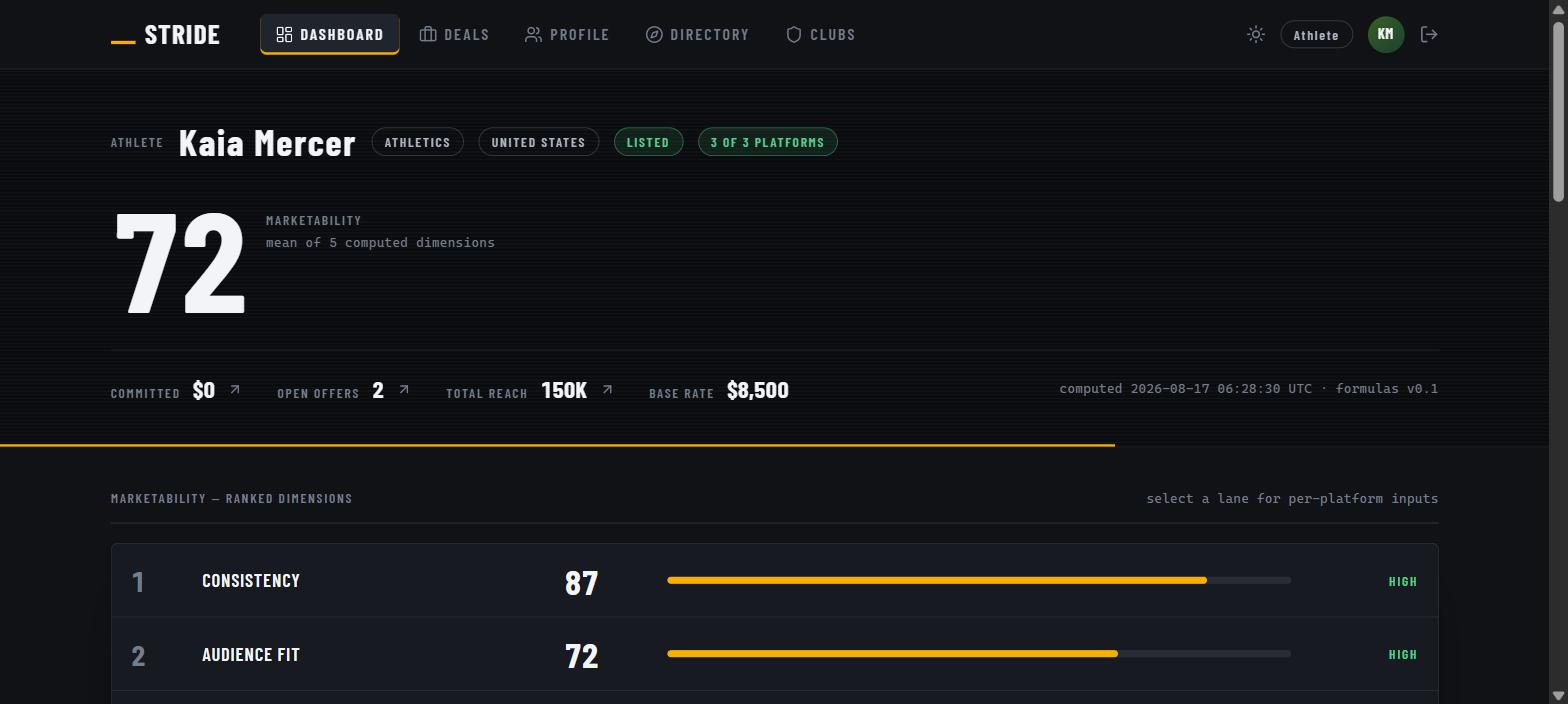
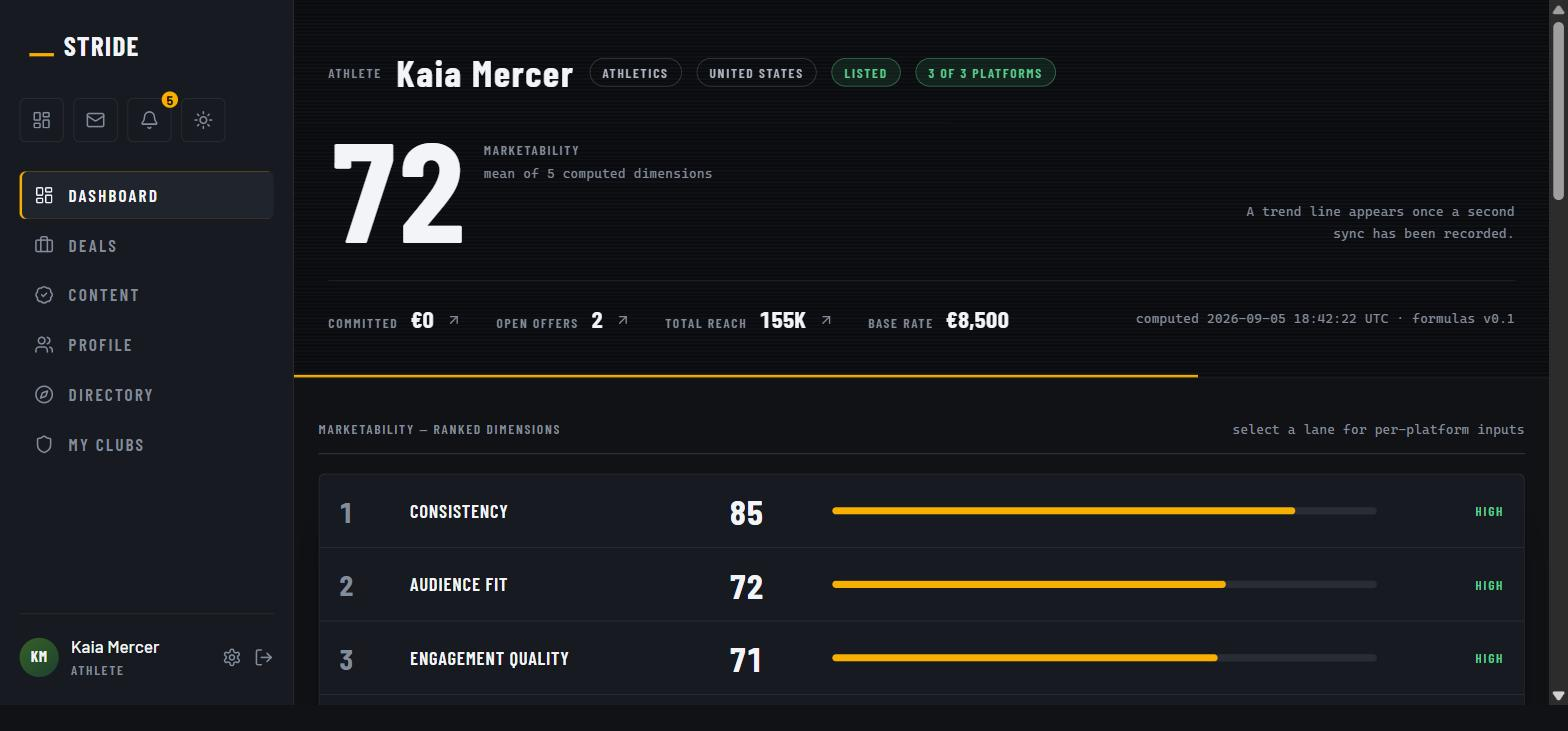
Re-shoot the README: the screenshots were three weeks and eleven PRs stale
Every image in the README was taken on 17 August. Since then the product grew
a choropleth, platform-tinted posts, generated cover art, an audience-aware
landing, a settings page, a moderation queue, a seeded money side and a named
type scale -- and the README showed none of it.

Ten screenshots, all re-taken from the current production build at the same
1568px width as the set they replace. Six replace the stale ones; four are
surfaces that did not exist to photograph before:

  audience-map     the choropleth, with the simulated-audience chip
  athlete-public   the page an athlete gives their audience
  creator-feed     a wall mixing own posts with platform activity, tinted
  account          address confirmation, password, sessions, data controls

The prose was stale in the same places. "Fans follow" was written when a fan
could only follow: they now subscribe, vote in polls, write on walls and
message the athletes they support, and the one-line pitch and the roles table
say so. "20 routes" is 32 -- links.py counts them, so there is no excuse for
that number being wrong.

The visual tour gained an opening paragraph about the direction itself, since
"what it looks like" had eight screenshots and no statement of what it was
trying to look like. It points at DESIGN.md and at design_audit.py, which is
the part worth knowing: the direction is not a matter of taste held in
somebody's head, it fails a run if a semantic colour drops under 4.5:1 where
[…]

diff --git a/README.md b/README.md
@@ -9,8 +9,9 @@
 </p>
 
 <p align="center">
-  Athletes own evidence-based marketability analytics. Sponsors match campaign briefs against the
-  athlete pool with fully decomposable scoring. Clubs sell packages. Fans follow.
+  Athletes own evidence-based marketability analytics and publish to the audience behind them.
+  Sponsors match campaign briefs against the athlete pool with fully decomposable scoring.
+  Clubs sell packages. Supporters follow for free, or subscribe for what sits behind the lock.
 </p>
 
 <p align="center">
@@ -58,21 +59,30 @@ Demo accounts, password `stride123`:
 | Athlete | `athlete@demo.stride` | Own analytics, platform connections, deal inbox |
 | Sponsor | `sponsor@demo.stride` | Campaign briefs, ranked matching, deal pipeline |
 | Club | `club@demo.stride` | Roster, sponsorship packages, commitments |
-| Supporter | `fan@demo.stride` | Discovery and a following feed |
+| Supporter | `fan@demo.stride` | Discovery, a following feed, subscriptions, polls and fan walls |
 | Admin | `admin@demo.stride` | Audit log and resilience drill |
 
 ---
 
 ## What it looks like
 
+The direction is a **stadium results board**, not a SaaS dashboard: enormous condensed numerals
+against 11px tracked caps, one accent (signal amber) for emphasis, semantic colour held separate
+for state, and a single orchestrated motion moment on load. Written down in
+[`apps/web/DESIGN.md`](apps/web/DESIGN.md) — and enforced by
+[`scripts/design_audit.py`](scripts/design_audit.py), which fails a build if a semantic colour
+drops under 4.5:1 where it is actually used, if a colour is written outside the token layer, or
+if a type size appears that is not on the scale.
+
 ### Matching that decomposes
 
-Every match is a weighted sum a sponsor can take apart. Bar length is each component's **contribution**
-to the score — component × the weight actually applied — so the chart ranks what really drove the
-match, not which raw number happened to be largest.
+Every match is a weighted sum a sponsor can take apart. Bar length is each component's
+**contribution** to the score — component × the weight actually applied — so the chart ranks what
+really drove the match, not which raw number happened to be largest. The reasons beside it are
+generated from the same arithmetic.
 
 <p align="center">
-  <img src="docs/media/score-composition.jpg" alt="Score composition ranked by contribution, with plain-language reasons and caveats" width="820">
+  <img src="docs/media/score-composition.jpg" alt="Score composition ranked by contribution, with the component times weight arithmetic and plain-language reasons" width="820">
 </p>
 
 ### The athlete's own board
@@ -84,22 +94,63 @@ against their own analytics is the point of the product.
   <img src="docs/media/athlete-dashboard.jpg" alt="Athlete dashboard with marketability board and ranked dimensions" width="820">
 </p>
 
+### Where the audience actually is
+
+Audience share as a choropleth rather than bubbles on centroids — filling the country says the
+same thing with no placement problem, because the shape *is* the label. A country nobody in this
+audience lives in is still drawn, plainly: that is a different statement from not drawing it.
+The chip is not decoration. Platform connectors are mocked in this build, and **every surface that
+shows an audience says so**.
+
+<p align="center">
+  <img src="docs/media/audience-map.jpg" alt="Audience by country as a choropleth, with a simulated-audience chip and the ranked country table" width="820">
+</p>
+
+### The page an athlete gives their audience
+
+Cover and avatar are generated from the name until the athlete uploads their own. Follow and
+subscribe are different relationships, not two words for one: following is free and public,
+subscribing is what opens the lock. The rate card and the score are stripped from this page for
+anyone who is not a sponsor, a club or an admin — an athlete previewing their own page sees
+exactly what a visitor sees.
+
+<p align="center">
+  <img src="docs/media/athlete-public.jpg" alt="An athlete's public page: generated cover art, verified badge, membership card and platform links" width="820">
+</p>
+
+### One wall, two kinds of post
+
+Posts an athlete writes sit beside the platform activity their connected accounts produce, and the
+platform items carry a very light wash of that platform's own colour — Instagram purple, TikTok
+cyan, YouTube red — at 5–7% behind a coloured edge. The label says the platform too, so the colour
+is never the only carrier. Locked posts show their title, their tier and what is behind them, and
+nothing else: no thumbnail leaks through the blur.
+
+<p align="center">
+  <img src="docs/media/creator-feed.jpg" alt="A wall mixing the athlete's own posts with platform activity, each tinted by platform" width="820">
+</p>
+
 <details>
-<summary><strong>More screens</strong> — ranked matching, directory, operations</summary>
+<summary><strong>More screens</strong> — ranked matching, directory, account, operations</summary>
 
 <br>
 
-**Ranked matches against a campaign brief**
+**Ranked matches against a campaign brief** — coverage stated on every row, because a score from
+one platform is not the same claim as a score from three
 
 <img src="docs/media/campaign-matches.jpg" alt="Campaign matches ranked with coverage chips" width="820">
 
 **Public athlete directory, sortable on the measurement**
 
-<img src="docs/media/directory.jpg" alt="Athlete directory with marketability column" width="820">
+<img src="docs/media/directory.jpg" alt="Athlete directory with marketability, rate card and analytics coverage columns" width="820">
 
-**Operations — audit log and resilience drill**
+**The account behind the profile** — address confirmation, password, sessions, export and deletion
 
-<img src="docs/media/operations.jpg" alt="Admin operations view with chaos controls" width="820">
+<img src="docs/media/account.jpg" alt="Account settings: confirmed email, password change, sessions and data controls" width="820">
+
+**Operations** — the moderation queue, the audit log and the resilience drill
+
+<img src="docs/media/operations.jpg" alt="Admin operations view with the report queue and chaos controls" width="820">
 
 </details>
 
@@ -108,7 +159,7 @@ against their own analytics is the point of the product.
 ## How it works
 
 ```
-apps/web/            React 18 · Vite · TS · Tailwind — 20 routes, each naming
+apps/web/            React 18 · Vite · TS · Tailwind — 32 routes, each naming
                      its own access rule (public, or guarded by role)
 apps/api/            FastAPI — auth + RBAC, routers per bounded context,
                      matching engine, JSON logs, /metrics, probes, chaos layer
@@ -127,7 +178,9 @@ growth, consistency. A dimension the engine cannot compute stays `null` all the 
 ranking — it is excluded and named, never silently scored as zero.
 
 **One code path, two databases.** SQLite by default; set `STRIDE_DATABASE_URL` for Postgres. A
-~100-line shim translates the dialect, so nothing above the connection changes.
+~100-line shim translates the dialect, so nothing above the connection changes — and the claim is
+checked rather than asserted: the same suite runs on both, 356 tests on SQLite and 358 on Postgres,
+where the two measurement tests that skip without a server can finally run.
 
 📐 Architecture: [`docs/architecture.md`](docs/architecture.md) · Client: [`docs/ui-architecture.md`](docs/ui-architecture.md) ·
 Visual: open [`docs/system-map.html`](docs/system-map.html) and [`docs/how-it-works.html`](docs/how-it-works.html) in a browser
@@ -162,6 +215,16 @@ rather than an afterthought:
 - **One cookie, and it is strictly necessary.** No analytics, no third-party scripts, no tracking —
   which is why there is no consent banner, a position the [Cookie Policy](apps/web/src/lib/legal.ts)
   explains rather than papers over.
+- **Six of six GDPR rights are live, and the page says which.** Access and portability are one JSON
+  export of everything held about you; erasure anonymises the person and keeps only the deal records
+  an accounting duty requires, with the name removed. Consent withdrawal, rectification and
+  restriction were already there. `/legal/data` states the status of each rather than implying a
+  button that does not exist.
+- **Terms acceptance is recorded with the version shown**, and a test reads `POLICY_VERSION` out of
+  the client to check the two constants cannot drift apart.
+- **Anyone can block anyone.** A block ends contact in both directions and tells the other side
+  nothing; a report reaches an admin queue with the message attached. With sixteen-year-olds
+  admitted and an open messaging network, that is a requirement rather than a feature.
 
 ---
 
